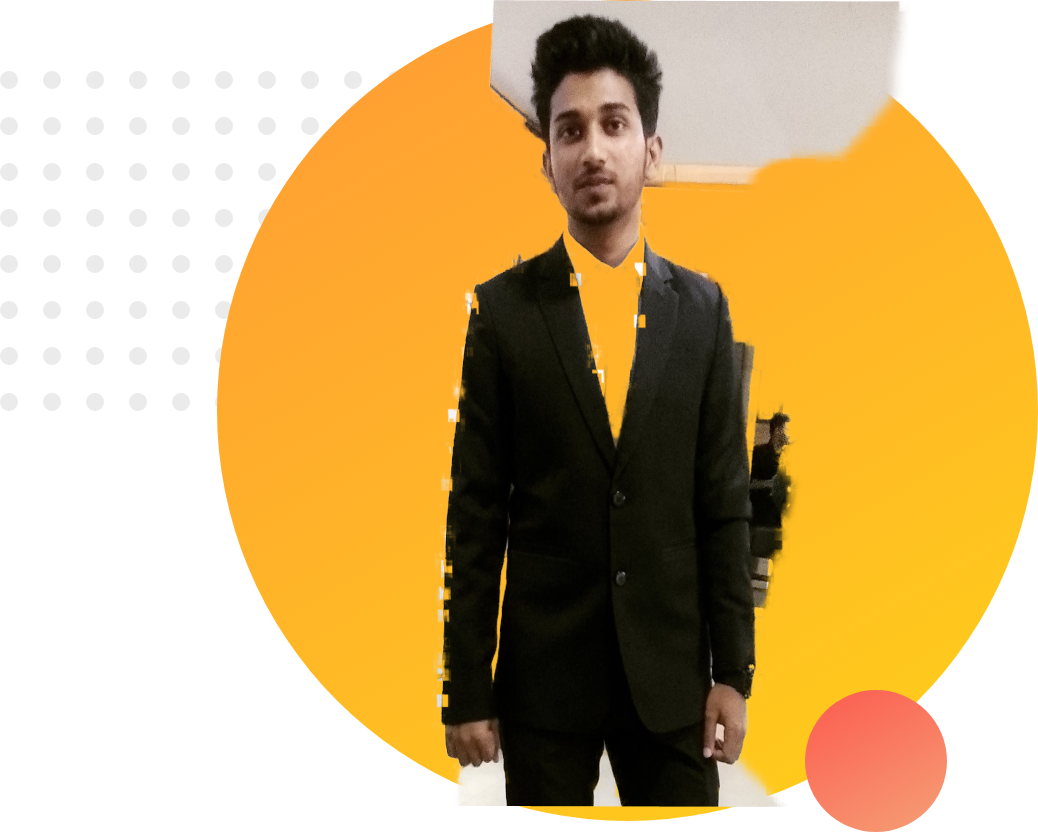
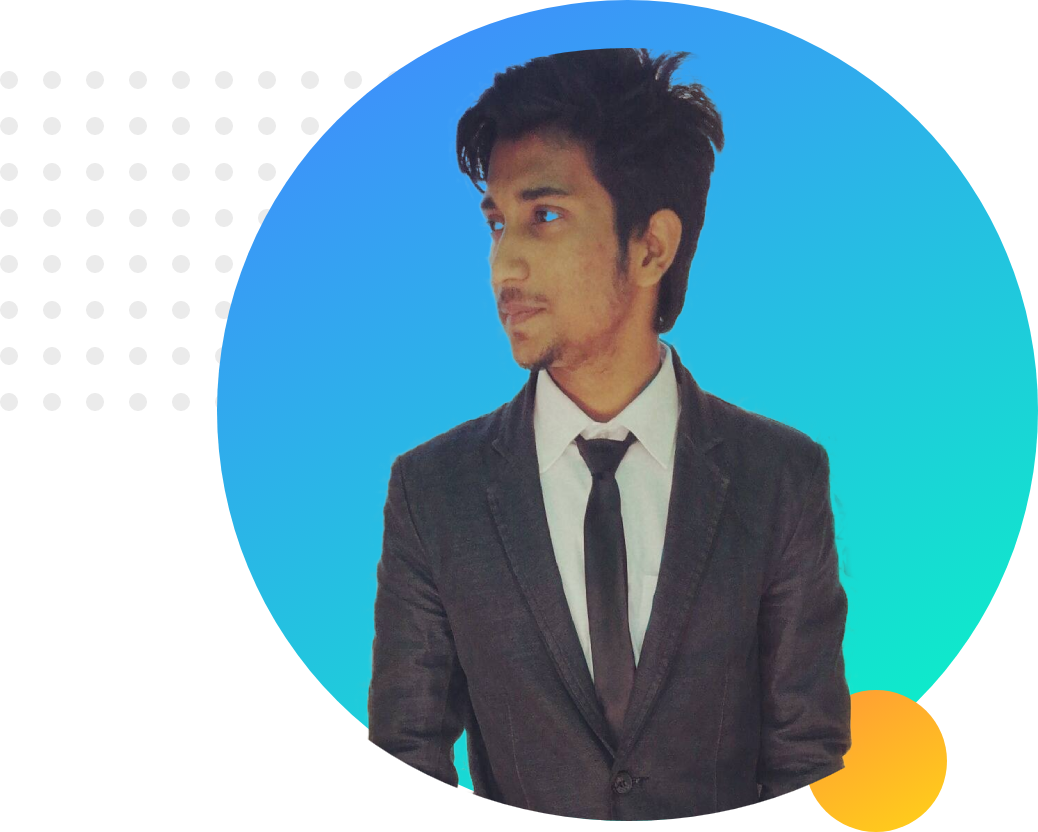
finish website work

diff --git a/index.html b/index.html
@@ -3,22 +3,58 @@
 <head>
     <meta charset="UTF-8">
     <meta name="viewport" content="width=device-width, initial-scale=1.0">
-    <title>Document</title>
+    <title>Shakil developer </title>
     <link href="https://fonts.googleapis.com/css?family=Poppins&display=swap" rel="stylesheet"> 
     <link rel="stylesheet" href="style.css">
 </head>
 <body>
     <section class="top-banner">
-        <div class="content">
-            <h1>Welcome To </h1>
-    <h1><span class="name-highlight">Shakil</span> Developer</h1>
-    <h3>World-class Professional Developer</h3>
-    <p>The skills people and businesses need to succeed are changing. No matter where you are in your career or what field you work in, you will need to understand the language of data. With DataCamp, you learn data science today and apply it tomorrow.</p>
+                <div class="content">
+                    <h1>Welcome To </h1>
+            <h1><span class="orange-highlight">Shakil</span> Developer</h1>
+            <h3>World-class Professional Developer</h3>
+            <p>The skills people and businesses need to succeed are changing. No matter where you are in your career or what field you work in, you will need to understand the language of data. With DataCamp, you learn data science today and apply it tomorrow.</p>
+            
+            <a class="link-button" target="_blank" href="https://www.linkedin.com/in/mahmud-shakil-a44a0a151/">HIRE ME</a>
+
+                </div>
+                <div class="content">
+                    <img src="images/profile2.png" alt=""> 
+                </div>
+    </section>
+
+    <section class="dream-area">
+            <div class="content">
+                <img src="images/profile1.png" alt="">
+            
+            </div>
+            <div class="content">
+                <h2>Big Dream</h2>
+                <h3>Become a world class Data Scientist</h3>
+                <p>There are countless excellent resources on data science, and it can be a little overwhelming to know where to start. This article will list some of the most useful blogs and websites for everyone—from data science experts to complete newbies. </p>
+                <a class="link-button" target="_blank" href="https://www.linkedin.com/in/mahmud-shakil-a44a0a151/">DOWNLOAD RSUME</a>
+            </div>
+    </section>
+    <section class="experiance-area">
+        <h2>Experiences</h2>
+        <div id="full-stack1" class="content singale-experiance">
+            <h2>FullStack Web Developer</h3>
+            <h3 class="orange-highlight"> 2021-Present | Pro Level Developer</h2>
+            <p>Data Science Central does exactly what its name suggests and acts as an online resource hub for just about everything related to data science and big data. The site covers a wide array of data science topics regarding analytics, technology, tools, data visualization, code, and job opportunities. Industry experts contribute discussion and insights about key topics.</p>
+
         </div>
-        <div class="content">
-            <img src="images/profile1.png"> </img>
+        <div id="full-stack2" class="content singale-experiance">
+            <h2>New Web Developer</h3>
+            <h3 class="orange-highlight">2021-2022 | Begineer Level Developer</h2>
+            <p>Data Science Central does exactly what its name suggests and acts as an online resource hub for just about everything related to data science and big data. The site covers a wide array of data science topics regarding analytics, technology, tools, data visualization, code, and job opportunities. Industry experts contribute discussion and insights about key topics.</p>
+
         </div>
     </section>
-    
+    <footer>
+        <div class="footer-div">
+            <p> @Copyright by Mahmud Shakil, All Right Reserved.</p>
+        </div>
+        
+    </footer>
 </body>
 </html>

diff --git a/style.css b/style.css
@@ -5,7 +5,13 @@ body {
 h1 {
     font-size: 50px;
 }
-.name-highlight{
+h2 {
+    font-size: 40px;
+}
+p {
+    color: dimgray;
+}
+.orange-highlight{
     color: orange;
 }
 .content{
@@ -20,9 +26,60 @@ h1 {
 }
 section {
     height: 500px;
+    padding-bottom: 150px;
+    
 }
 
 .top-banner {
     background-image: url("images/top-banner.png");
     background-repeat: no-repeat;
+}
+.link-button {
+    text-decoration: none;
+    background-image: linear-gradient(90deg,lightSalmon,tomato);
+    padding: 10px 20px;
+    border-radius: 5px;
+    color: white;
+    font-weight: 700;
+}
+.dream-area{
+    background-image: url("images/dream-bg.png");
+    background-repeat: no-repeat;
+    background-position: right;
+}
+.singale-experiance{
+    box-shadow: 10px 10px 40px gray;
+    border-radius: 5px;
+    height: 80%;
+}
+.experiance-area{
+    background-image: url("images/exp-bg.png");
+    background-repeat: no-repeat;
+    background-position: left;
+    background-color: white;
+
+}
+#full-stack1 {
+    border-left: 7px solid;
+    border-image: linear-gradient(180deg,lightSalmon,tomato);
+    border-image-slice: 1;
+
+}
+#full-stack2 {
+    border-left: 7px solid;
+    border-image: linear-gradient(180deg,blue,cyan);
+    border-image-slice: 1;
+}
+footer p {
+    text-align: center;
+    padding-top: 40px;
+    font-weight: 700;
+}
+.footer-div{
+    height: 100px;
+    width: 100%;
+    background-color: rgb(238, 101, 42);
+}
+footer {
+    position: relative;
 }
